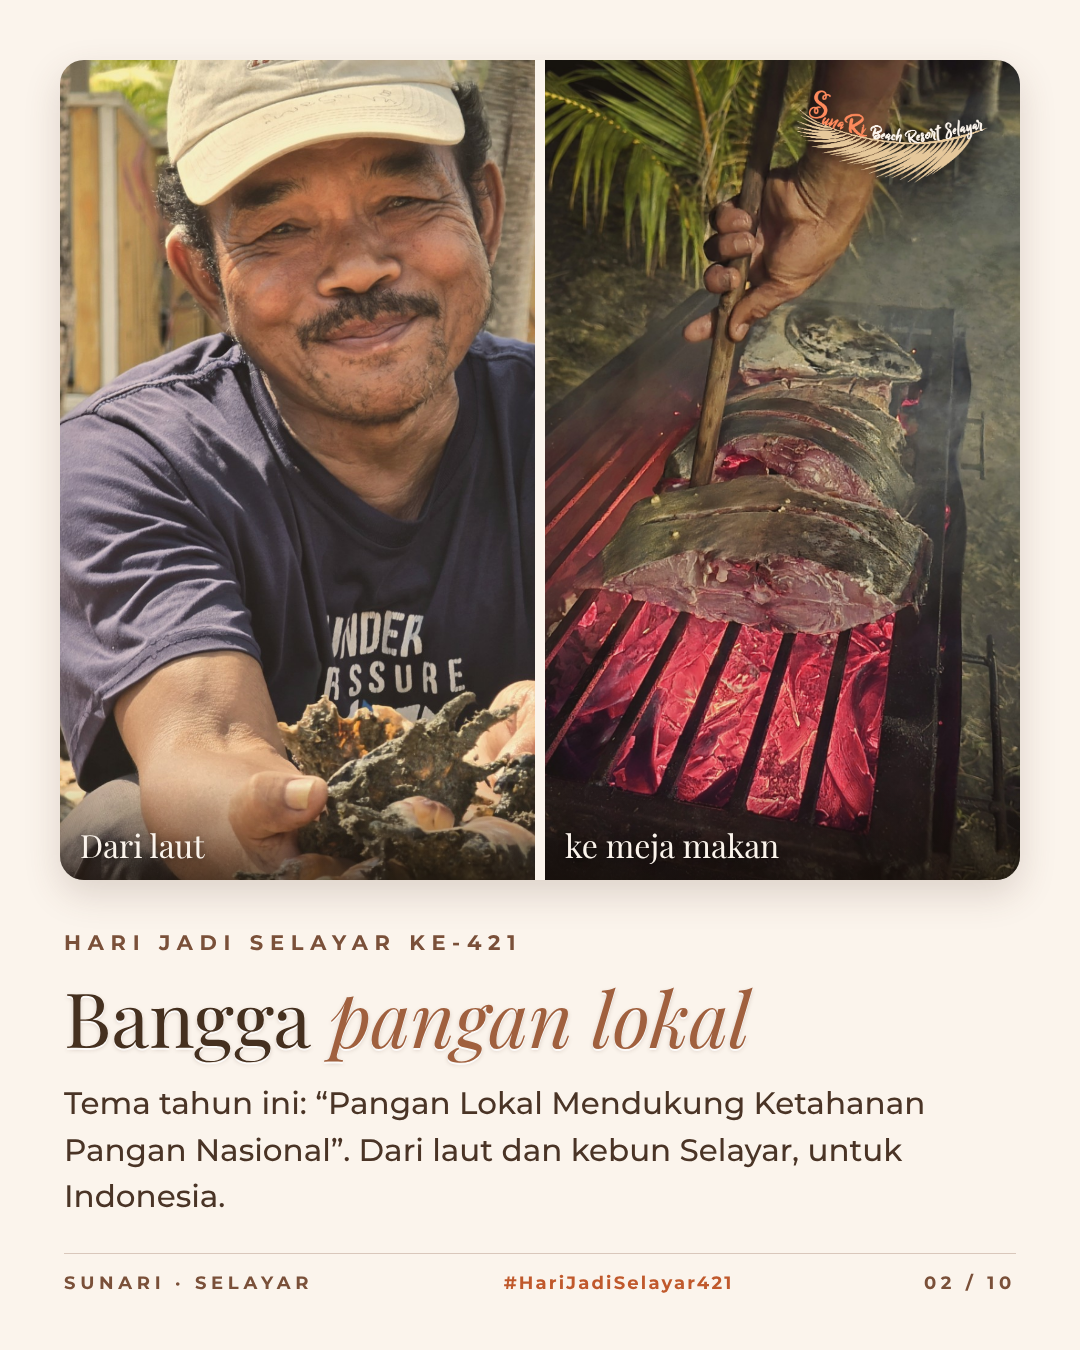
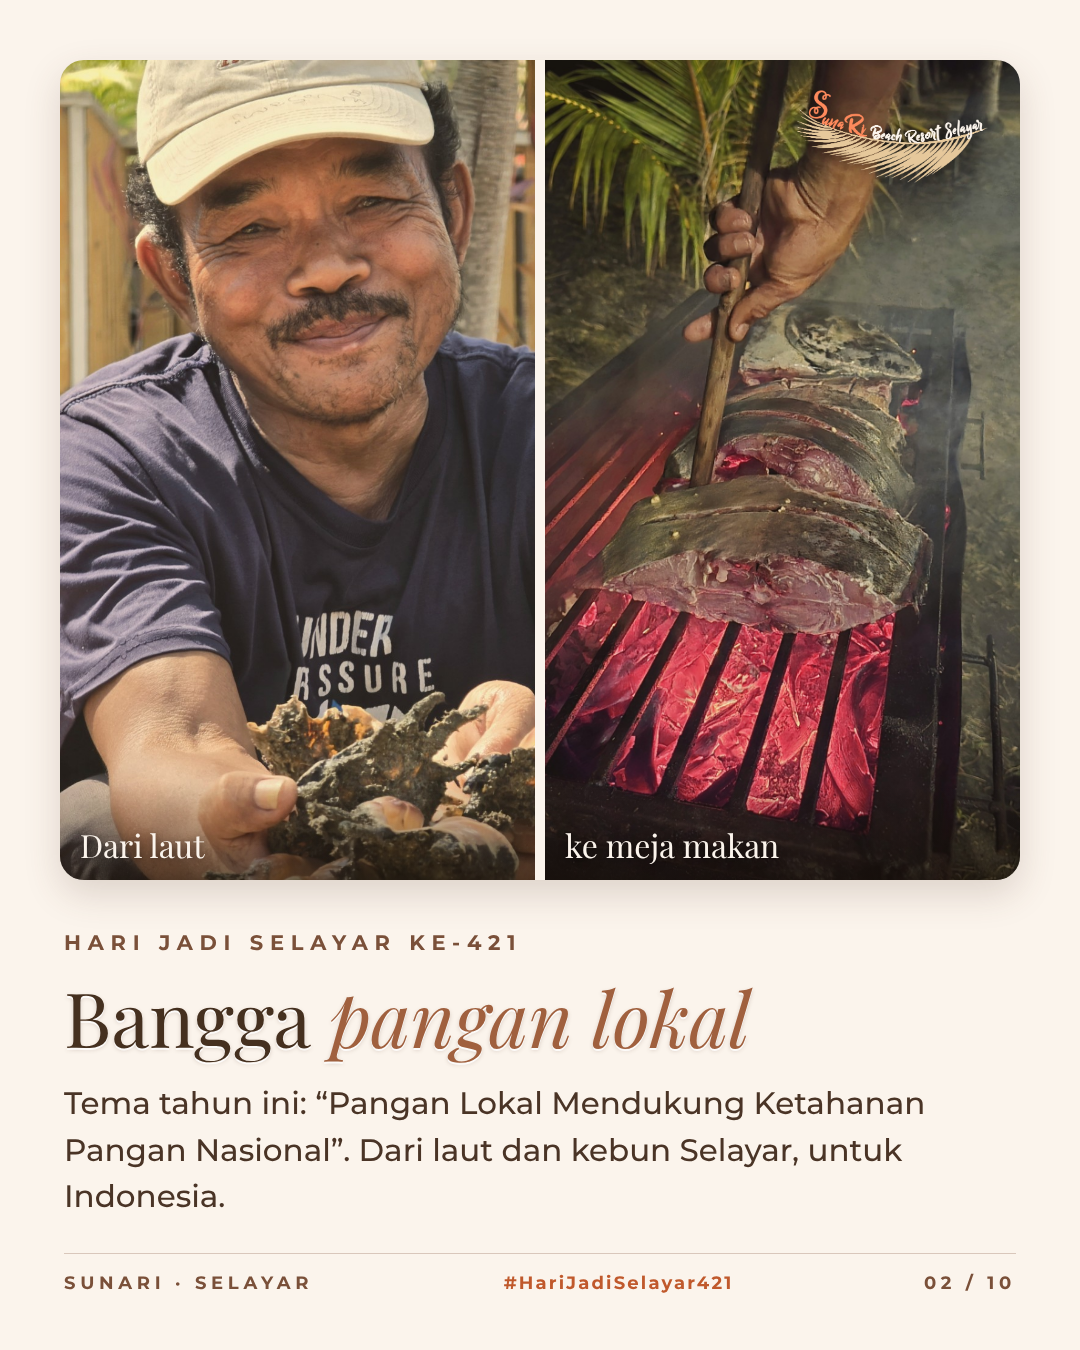
Hari Jadi Selayar slide 2: foto 'Dari laut' dipaskan di tengah
Claude-Session: https://claude.ai/code/session_01KeLc5eBGUnchV5ne3wvwHX

Changed region(s): [[0.0306, 0.0311, 0.5194, 0.6533]]

diff --git a/social/hari_jadi_feed.html b/social/hari_jadi_feed.html
@@ -39,7 +39,7 @@ body{background:#bbb;font-family:Montserrat,sans-serif}
   <div class="fk">29 November 1605 — 2026</div><div class="fh" style="font-size:96px">Selamat<br>Hari Jadi</div>
   <div class="big" style="position:absolute;left:76px;top:390px">ke-421</div>
   <div class="fs" style="top:620px">Kabupaten Kepulauan Selayar</div>
-  <div class="fg">Geser &nbsp;→</div><img class="fl" src="../assets/logo-sunari-color-dark.png" alt=""></div><div class="t" id="hari-jadi-02"><div class="ph grid" style="grid-template-columns:1fr 1fr;grid-template-rows:1fr"><div style=""><img src="hari-jadi-selayar-feed/foto/pantai__06-nelayan-hasil-laut-kerang.jpg" style="object-position:36% 50%" alt=""><div class="cap">Dari laut</div></div><div style=""><img src="hari-jadi-selayar-feed/foto/resto__06-bakar-ikan-tuna-bara.jpg" style="object-position:50% 52%" alt=""><div class="cap">ke meja makan</div></div><img class="lg" src="../assets/logo-sunari-color-dark.png" style="position:absolute" alt=""></div>
+  <div class="fg">Geser &nbsp;→</div><img class="fl" src="../assets/logo-sunari-color-dark.png" alt=""></div><div class="t" id="hari-jadi-02"><div class="ph grid" style="grid-template-columns:1fr 1fr;grid-template-rows:1fr"><div style=""><img src="hari-jadi-selayar-feed/foto/pantai__06-nelayan-hasil-laut-kerang.jpg" style="object-position:41% 50%" alt=""><div class="cap">Dari laut</div></div><div style=""><img src="hari-jadi-selayar-feed/foto/resto__06-bakar-ikan-tuna-bara.jpg" style="object-position:50% 52%" alt=""><div class="cap">ke meja makan</div></div><img class="lg" src="../assets/logo-sunari-color-dark.png" style="position:absolute" alt=""></div>
   <div class="kick">Hari Jadi Selayar ke-421</div><div class="ttl emb">Bangga <em>pangan lokal</em></div><div class="sub">Tema tahun ini: “Pangan Lokal Mendukung Ketahanan Pangan Nasional”. Dari laut dan kebun Selayar, untuk Indonesia.</div>
   <div class="bt"><span>SunaRi · Selayar</span><span class="h">#HariJadiSelayar421</span><span>02 / 10</span></div></div><div class="t" id="hari-jadi-03"><div class="ph"><img src="hari-jadi-selayar-feed/foto/bahuluang__21-laut-toska-dari-kapal.jpg" style="object-position:50% 70%" alt=""><img class="lg" src="../assets/logo-sunari-color-dark.png" alt=""></div>
   <div class="kick">Hari Jadi Selayar ke-421</div><div class="ttl emb">Laut yang <em>memberi</em></div><div class="sub">Air toska, pasir putih, dan karang yang terjaga. Laut Selayar adalah rumah, sumber kehidupan, dan kebanggaan kita.</div>

diff --git a/social/build_hari_jadi_feed.py b/social/build_hari_jadi_feed.py
@@ -22,7 +22,7 @@ T.append(f'''<div class="t fc" id="hari-jadi-01"><img class="bgf" src="{P}senja_
   <div class="fs" style="top:620px">Kabupaten Kepulauan Selayar</div>
   <div class="fg">Geser &nbsp;→</div><img class="fl" src="{LOGO_D}" alt=""></div>''')
 SL = [
-  ([(P + "pantai__06-nelayan-hasil-laut-kerang.jpg", "36% 50%", "Dari laut"), (P + "resto__06-bakar-ikan-tuna-bara.jpg", "50% 52%", "ke meja makan")], "", 'Bangga <em>pangan lokal</em>',
+  ([(P + "pantai__06-nelayan-hasil-laut-kerang.jpg", "41% 50%", "Dari laut"), (P + "resto__06-bakar-ikan-tuna-bara.jpg", "50% 52%", "ke meja makan")], "", 'Bangga <em>pangan lokal</em>',
   'Tema tahun ini: “Pangan Lokal Mendukung Ketahanan Pangan Nasional”. Dari laut dan kebun Selayar, untuk Indonesia.'),
  (P + "bahuluang__21-laut-toska-dari-kapal.jpg", "50% 70%", 'Laut yang <em>memberi</em>',
   'Air toska, pasir putih, dan karang yang terjaga. Laut Selayar adalah rumah, sumber kehidupan, dan kebanggaan kita.'),
